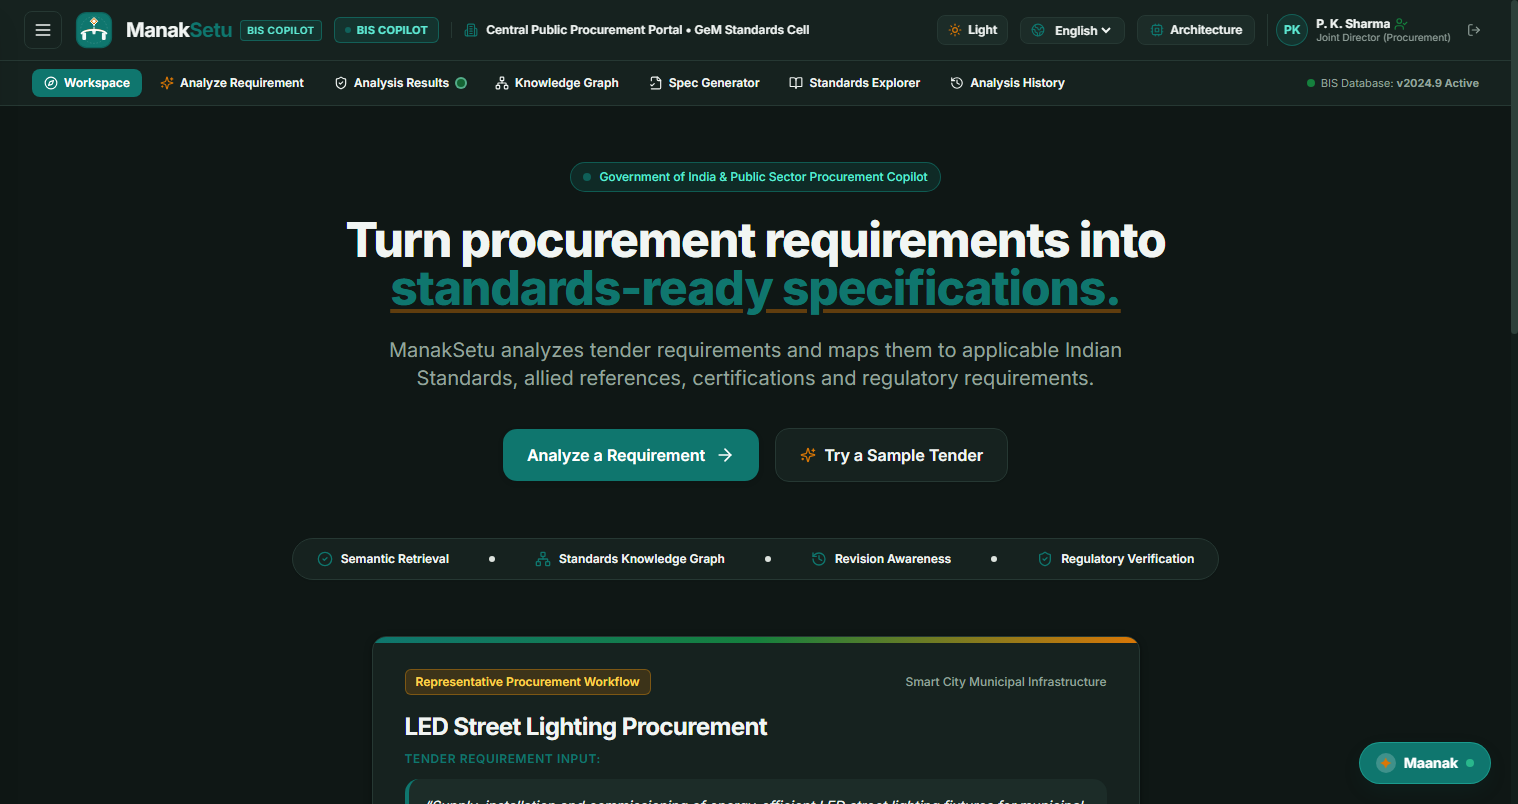
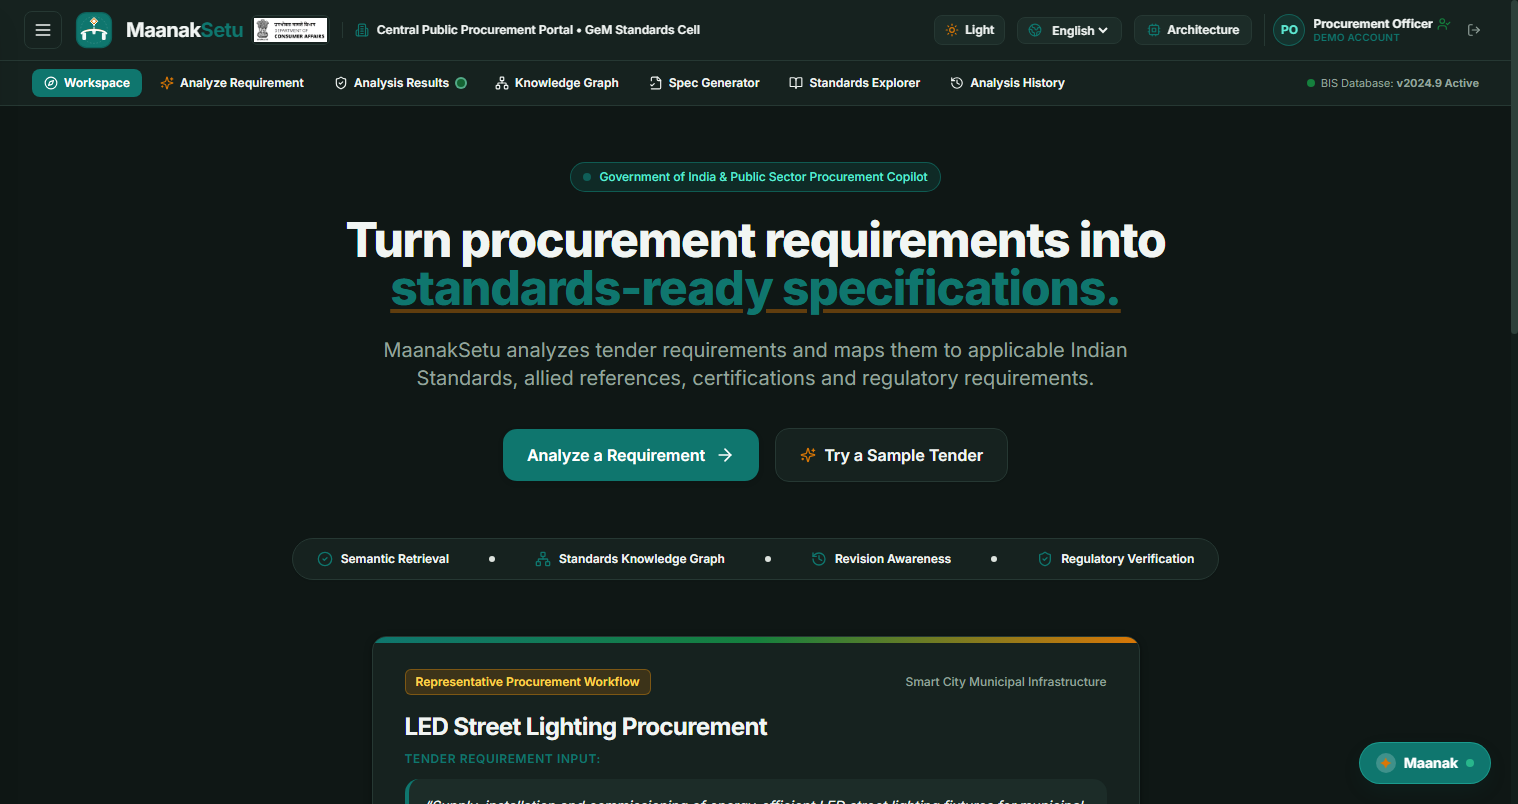
feat(branding): add official ministry emblem beside MaanakSetu and update demo personnel display to designation

diff --git a/src/app/page.tsx b/src/app/page.tsx
@@ -75,6 +75,9 @@ export default function Home() {
   const [isArchModalOpen, setIsArchModalOpen] = useState<boolean>(false);
   const [isNavDrawerOpen, setIsNavDrawerOpen] = useState<boolean>(false);
 
+  // Officer role state
+  const [officerRole, setOfficerRole] = useState<string>('Procurement Officer');
+
   // History & Saved tenders
   const [savedProjects, setSavedProjects] = useState<SavedTenderProject[]>([]);
 
@@ -106,8 +109,12 @@ export default function Home() {
         document.documentElement.classList.remove('dark');
       }
 
-      // 2. Demo Auth
+      // 2. Demo Auth & Role
       const demoAuth = localStorage.getItem('manaksetu_demo_officer_logged_in');
+      const savedRole = localStorage.getItem('manaksetu_officer_role');
+      if (savedRole) {
+        setOfficerRole(savedRole);
+      }
       if (demoAuth === 'false') {
         setIsLoggedIn(false);
       } else if (demoAuth === 'true') {
@@ -296,8 +303,18 @@ export default function Home() {
     }
   };
 
+  const handleLoginSuccess = () => {
+    setIsLoggedIn(true);
+    try {
+      const savedRole = localStorage.getItem('manaksetu_officer_role');
+      if (savedRole) {
+        setOfficerRole(savedRole);
+      }
+    } catch {}
+  };
+
   if (isAuthChecked && !isLoggedIn) {
-    return <DemoLoginScreen onLoginSuccess={() => setIsLoggedIn(true)} />;
+    return <DemoLoginScreen onLoginSuccess={handleLoginSuccess} />;
   }
 
   return (
@@ -378,17 +395,24 @@ export default function Home() {
 
             {/* Officer Profile Badge with Sign Out */}
             <div className="flex items-center gap-2 pl-2 border-l border-govborder">
-              <div className="w-8 h-8 rounded-full bg-brand-50 border border-brand-200 text-brand flex items-center justify-center font-bold text-xs shadow-gov-sm">
-                PK
+              <div
+                className="w-8 h-8 rounded-full bg-brand-50 border border-brand-200 text-brand flex items-center justify-center font-bold text-xs shadow-gov-sm"
+                title={`${officerRole || 'Procurement Officer'} • Demo Account`}
+              >
+                {officerRole === 'Technical Scrutiny Officer'
+                  ? 'TS'
+                  : officerRole === 'Competent Financial Authority'
+                  ? 'CA'
+                  : 'PO'}
               </div>
               <div className="hidden md:block text-left text-xs leading-tight">
                 <div className="font-bold text-charcoal flex items-center gap-1">
-                  <span>P. K. Sharma</span>
-                  <span title="Verified Officer Session">
+                  <span>{officerRole || 'Procurement Officer'}</span>
+                  <span title="Verified Demo Account">
                     <UserCheck className="w-3.5 h-3.5 text-secgreen" />
                   </span>
                 </div>
-                <div className="text-[10px] text-govmuted">Joint Director (Procurement)</div>
+                <div className="text-[10px] font-semibold text-brand tracking-wide uppercase">Demo Account</div>
               </div>
               <button
                 onClick={handleSignOut}

diff --git a/src/components/ManakSetuLogo.tsx b/src/components/ManakSetuLogo.tsx
@@ -102,10 +102,21 @@ export default function ManakSetuLogo({
 
       {/* Product Name & Tagline */}
       <div className="flex flex-col">
-        <div className="flex items-center">
+        <div className="flex items-center gap-2">
           <span className={`font-bold tracking-tight text-charcoal leading-none ${textClasses[size]}`}>
             Maanak<span className="text-brand">Setu</span>
           </span>
+          {/* Official Ministry / Department Photo / Emblem */}
+          <div
+            className="inline-flex items-center rounded-md overflow-hidden bg-white/95 dark:bg-white/90 p-0.5 border border-govborder/80 shadow-2xs"
+            title="Department of Consumer Affairs • Bureau of Indian Standards"
+          >
+            <img
+              src="/official-emblem.png"
+              alt="Department of Consumer Affairs"
+              className="h-6 w-auto object-contain"
+            />
+          </div>
         </div>
         {showTagline && (
           <span className="text-xs text-govmuted tracking-normal mt-0.5 font-normal">

diff --git a/src/app/api/auth/status/route.ts b/src/app/api/auth/status/route.ts
@@ -10,8 +10,8 @@ export async function GET(req: NextRequest) {
     authenticated: isAuth,
     role: isAuth ? 'officer' : 'guest',
     email: isAuth ? (process.env.AUTH_LOGIN_EMAIL || 'officer@maanaksetu.demo') : null,
-    officerName: isAuth ? 'P. K. Sharma' : null,
-    officerDesignation: isAuth ? 'Joint Director (Procurement)' : null,
+    officerName: isAuth ? 'Procurement Officer' : null,
+    officerDesignation: isAuth ? 'Demo Account' : null,
     officerDepartment: isAuth ? 'GeM & CPPP Standards Scrutiny Cell' : null,
   });
 }

diff --git a/scripts/testFinalPolish.js b/scripts/testFinalPolish.js
@@ -171,7 +171,7 @@ async function testFinalPolish() {
         return {
           loggedIn,
           hasWorkspace: text.includes('Turn procurement requirements into'),
-          hasOfficerProfile: text.includes('P. K. Sharma'),
+          hasOfficerProfile: text.includes('Procurement Officer') && text.includes('Demo Account'),
           hasMaanakButton: !!document.querySelector('button[aria-label*="Maanak"]'),
           hasThemeToggle: !!document.querySelector('button[aria-label*="Switch to"]')
         };

diff --git a/src/components/DemoLoginScreen.tsx b/src/components/DemoLoginScreen.tsx
@@ -243,7 +243,7 @@ export default function DemoLoginScreen({ onLoginSuccess }: DemoLoginScreenProps
             {/* Small Footer Notice */}
             <div className="mt-4 text-center">
               <span className="text-[11px] text-govmuted dark:text-[#94A39D] font-medium">
-                Demo environment • Procurement Officer
+                DEMO ACCOUNT • {role}
               </span>
             </div>
           </div>
